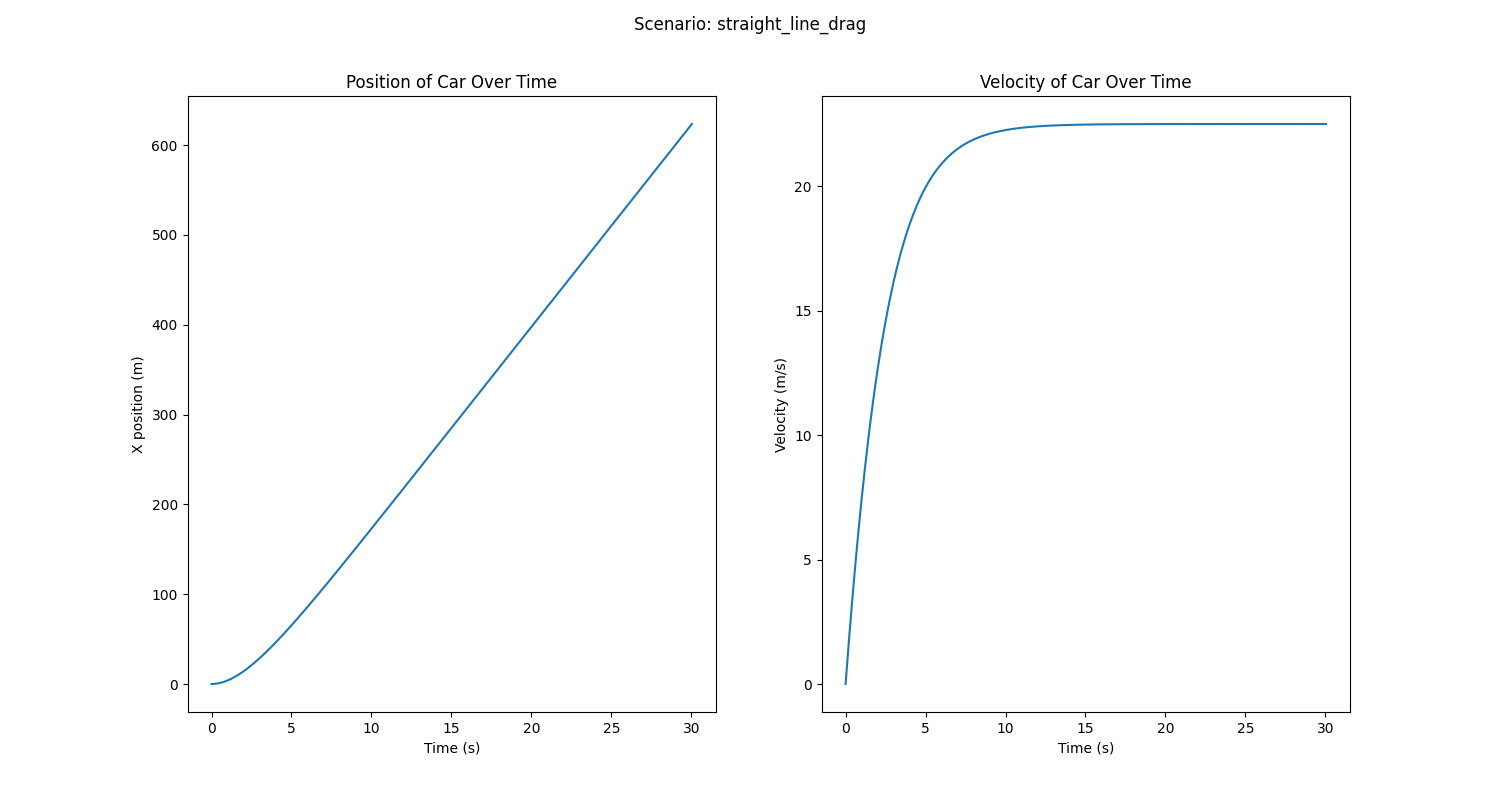
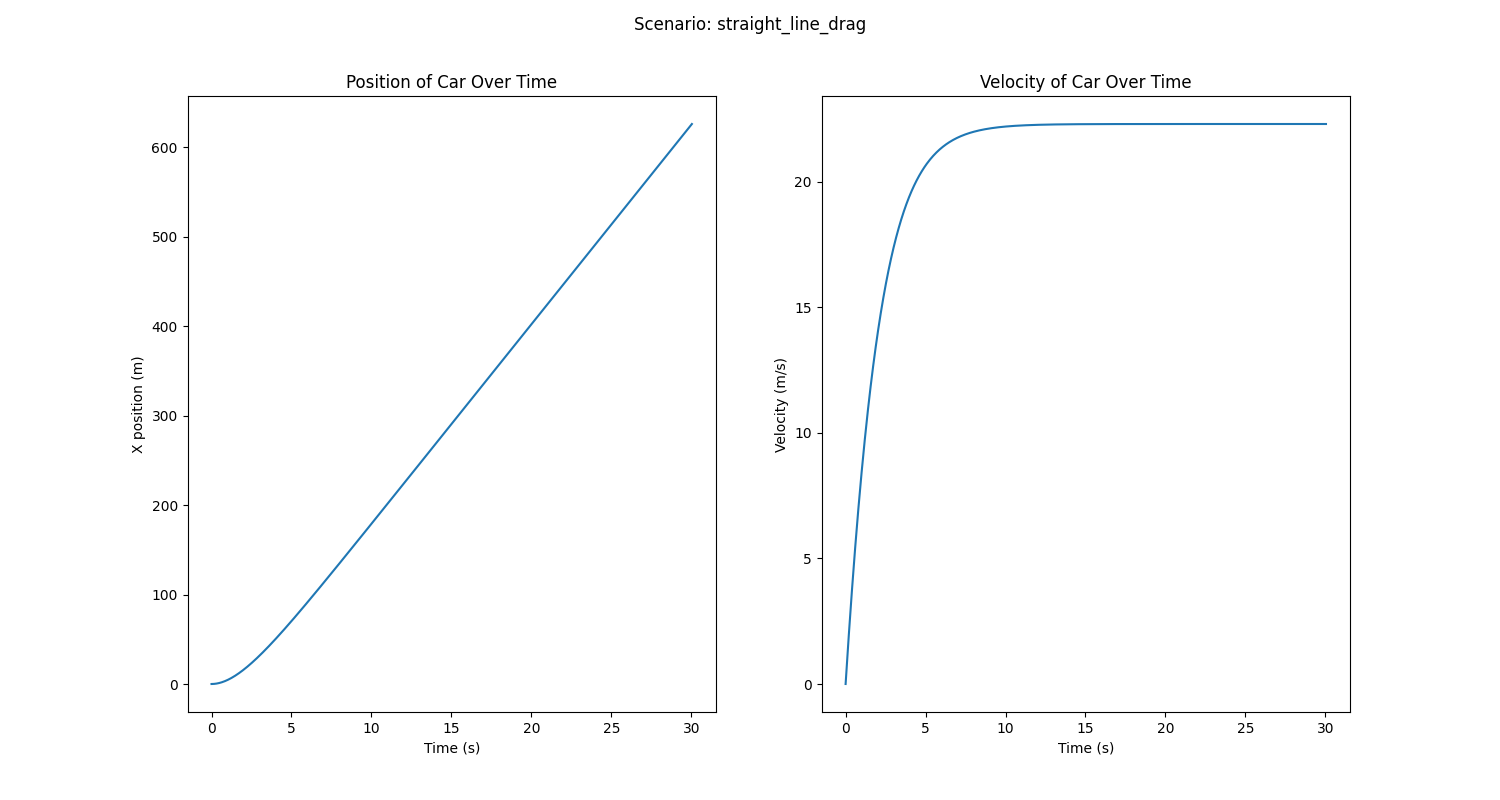
Finished commenting and added max speed display

diff --git a/modules/physics.py b/modules/physics.py
@@ -1,7 +1,7 @@
 import numpy as np
 
 # Constants
-air_density = 1
+air_density = 1.225 # kg/m^3
 transition_coefficient = 0.01 # unitless
 transition_coefficient = 0.006 # unitless
 g = 9.81 # m/s^2
@@ -25,88 +25,121 @@ def lift_force(velocity, rho, coeff_lift, area):
     # F_lift = 1/2 C_l*p*A*V^2 directed perpendicular to velocity
     return direction * (1/2 * coeff_lift * rho * area * v_mag**2)
 
-
-# I'm fucking quitting
+# Static to kinetic friction transition
+# takes static friction force, kinetic friction force, the limit of static friction, and a transition coefficient and calculates a smooth transition from static to kinetic friction as static friction approaches the limit
 def static_to_kinetic_transition(F_static, F_kinetic, F_limit, transition_coefficient):
-    force_mag = np.linalg.norm(F_static)
-    transition_ratio = (1 + np.e ** (1/transition_coefficient - force_mag/(transition_coefficient * F_limit)))**(-1)
-    return (1 - transition_ratio) * F_static + transition_ratio * F_kinetic, transition_ratio
+    force_mag = np.linalg.norm(F_static) # calculate the magnitude of static friction
+    transition_ratio = (1 + np.e ** (1/transition_coefficient - force_mag/(transition_coefficient * F_limit)))**(-1) # calculate the transition ratio from static to kinetic friction using a signmoid curve
+    return (1 - transition_ratio) * F_static + transition_ratio * F_kinetic, transition_ratio # apply a weighted average of the static and kinetic friction based on the transition ratio
     
 
 # Torque from a dc motor
 # takes motor angular speed w, applied voltage V_app, free speed w_free, max voltage V_max, stall torque T_stall, and stall current I_stall
+# units are rad/s volts, Nm, and amps
 def dc_motor_torque(w, V_app, w_free, V_max, T_stall, I_stall):
-    K_s = T_stall/I_stall
-    R_m = V_max/I_stall
-    V_emf = w/w_free * V_max
+    K_s = T_stall/I_stall # Torque constant
+    R_m = V_max/I_stall # Winding resistance in ohms
+    V_emf = w/w_free * V_max # emf in volts
 
-    I_stator = (V_app - V_emf)/R_m
-    return I_stator * K_s
+    I_stator = (V_app - V_emf)/R_m # winding current in amps
+    return I_stator * K_s # output torque in Nm
 
+# Stores the constants for a dc motor and allows calculating the output torque from applied voltage and angular velocity
 class DC_Motor:
+    # Constructor requires constants to define the motor dynamics
     def __init__(self, w_free, V_max, T_stall, I_stall):
-        self.w_free = w_free
-        self.V_max = V_max
-        self.T_stall = T_stall
-        self.I_stall = I_stall
+        self.w_free = w_free # rads/s
+        self.V_max = V_max # volts
+        self.T_stall = T_stall # Nm
+        self.I_stall = I_stall # amps
 
+    # calculate the torque from angular velocity and applied voltage
     def calculate_torque(self, w, V_app):
-        return dc_motor_torque(w, V_app, self.w_free, self.V_max, self.T_stall, self.I_stall)
+        return dc_motor_torque(w, V_app, self.w_free, self.V_max, self.T_stall, self.I_stall) # Nm
 
 # Collection of all the parameters, state, and dynamics of the simulated race car 
 # State vector is x,y position, x,y velocity, and the car heading
 class RaceCar:
+    # Constructor
     def __init__(self, mass, drag_coeff, drag_area, coeff_lift, wing_area, wheel_base, wheel_radius, coeff_friction, dc_motor):
         self.mass = mass # kg
-        self.drag_coeff = drag_coeff # 
-        self.drag_area = drag_area
-        self.coeff_lift = coeff_lift
-        self.wing_area = wing_area
+        self.drag_coeff = drag_coeff # unitless
+        self.drag_area = drag_area # m^2
+        self.coeff_lift = coeff_lift # unitless
+        self.wing_area = wing_area # m^2
         self.wheel_base = wheel_base # m
         self.wheel_radius = wheel_radius # m
-        self.coeff_friction = coeff_friction
+        self.coeff_friction = coeff_friction # unitless
         self.dc_motor = dc_motor
         self.state = np.zeros(5)
 
+    # calculate the turn radius for a given steering angle using the kinematics of the chassis
+    # steering angle in radians, radius in meters
     def steering_angle_to_turn_radius(self, steering_angle):
-        return np.sqrt((self.wheel_base/2)**2 + self.wheel_base**2 * np.tan(steering_angle)**(-2))
+        return np.sqrt((self.wheel_base/2)**2 + self.wheel_base**2 * np.tan(steering_angle)**(-2)) # m
 
+    # time derivative of the state vector
     def dxdt(self, x, u, t):
+        # slice the velocity from the state vector
         velocity = x[2:4] 
+        # car heading
         heading = x[4]
 
+        # make a unit vector in the direciton of the car heading
         heading_vector = np.array([np.cos(heading), np.sin(heading)])
+        # calculate the inward normal vector (points into the turn)
         if u[2] != 0:
+            # 90 degrees to heading if the turn is non zero
             inward_normal = np.array([-1 * np.sin(heading), np.cos(heading)]) if u[2] > 0 else np.array([np.sin(heading), -1 * np.cos(heading)])
+        # zero vector if the turn is zero
         else: inward_normal = np.zeros(2)
+        # vector representing velocity in the direction of the car heading
         forward_motion = velocity.dot(heading_vector) * heading_vector
 
-        wheel_speed = np.linalg.norm(forward_motion)/self.wheel_radius
-        motor_force = self.dc_motor.calculate_torque(wheel_speed, u[0])/self.wheel_radius * heading_vector
-        braking_force = -1 * u[1] * heading_vector 
+        # dervive the wheel speed from the forward velocity of the car and wheel radius
+        wheel_speed = np.linalg.norm(forward_motion)/self.wheel_radius # rad/s
+        # calculate the force applied by the motor using the motor torque multplied by the wheel radius applied in the direction of the car heading
+        motor_force = self.dc_motor.calculate_torque(wheel_speed, u[0])/self.wheel_radius * heading_vector # N
+        # Braking force is taken from the input vector and applied opposite the car heading
+        braking_force = -1 * u[1] * heading_vector # N
 
-        turn_radius = self.steering_angle_to_turn_radius(u[2])
-        centripetal_acceleration = np.linalg.norm(forward_motion)**2 / turn_radius
-        turning_force = centripetal_acceleration * self.mass * inward_normal
+        # Turn radius from steering angle
+        turn_radius = self.steering_angle_to_turn_radius(u[2]) # m
+        # centripetal acceleartion from turn radius and forward velocity
+        centripetal_acceleration = np.linalg.norm(forward_motion)**2 / turn_radius # m/s^2
+        # force required to turn the car in the direction of the inward normal
+        turning_force = centripetal_acceleration * self.mass * inward_normal # N
 
-        static_friction = motor_force + braking_force + turning_force
-        kinetic_friction = -1 * velocity/np.linalg.norm(velocity) * g * self.mass if np.linalg.norm(velocity) != 0 else np.zeros(2)
-        normal_force = g * self.mass + 1 * lift_force(forward_motion, air_density, self.coeff_lift, self.wing_area)[2]
-        limit_of_friction = self.coeff_friction * normal_force 
-        frictional_force, transition_factor = static_to_kinetic_transition(static_friction, kinetic_friction, limit_of_friction, transition_coefficient)
+        # Static friction force required to accelerate/brake/turn
+        static_friction = motor_force + braking_force + turning_force # N
+        # Force of kinetic friction if the car were sliding directed opposite the direction of travel
+        kinetic_friction = -1 * velocity/np.linalg.norm(velocity) * g * self.mass if np.linalg.norm(velocity) != 0 else np.zeros(2) # N
+        # Normal force is the sum of the force of gravity and force generated by downforce producing wings
+        normal_force = g * self.mass + 1 * lift_force(forward_motion, air_density, self.coeff_lift, self.wing_area)[2] # N
+        # Limit of static friction from normal force and coefficient of friction 
+        limit_of_friction = self.coeff_friction * normal_force # N
+        # Frictional force and the transition factor between static and kinetic caclulated using the smooth transition function
+        frictional_force, transition_factor = static_to_kinetic_transition(static_friction, kinetic_friction, limit_of_friction, transition_coefficient) # N
 
-        drag = drag_force(velocity, air_density, self.drag_coeff, self.drag_area)
-        f_net = drag + frictional_force
+        # Calculate the force of drag on the car acting opposite the direction of travel
+        drag = drag_force(velocity, air_density, self.drag_coeff, self.drag_area) # N
+        # Net force acting on the car is the sum of drag and friction
+        f_net = drag + frictional_force # N
 
-        acceleration = f_net / self.mass
-        angular_velocity = np.linalg.norm(forward_motion)/turn_radius * np.sign(u[2])
+        # acceleration of the car a = F/m
+        acceleration = f_net / self.mass # m/s^2
+        # rate of change of the cars heading calculated from the turn radius of the car
+        angular_velocity = np.linalg.norm(forward_motion)/turn_radius * np.sign(u[2]) # rad/s
 
+        # return the state derivative vector
         return np.array([velocity[0], velocity[1], acceleration[0], acceleration[1], angular_velocity])
         
 
+    # store a new state for the car
     def update_state(self, new_state):
         self.state = new_state
 
+    # return the state stored for the car
     def get_state(self):
         return self.state
 

diff --git a/main.py b/main.py
@@ -1,71 +1,98 @@
+# Import libraries and modules
 from modules import sim
 from matplotlib import pyplot as plt
 from matplotlib import animation, patches
 import numpy as np
 import scenarios
 
+# Set the scenario to be run and load the car and control vector objects
 scenario = "constant_turn_downforce" 
 car = scenarios.scenarios[scenario]["car"]
 u = scenarios.scenarios[scenario]["u"]
 
-car_width = 1.5
-car_length = 3
+# Car width and length for plotting
+car_width = 1.5 # m
+car_length = 3 # m
 
+# Method to offset the car so that the center of the rectangle lies at the passed position
 def offset_car(position, heading):
+    # apply a rotation matrix on the translation between the corner and center of the rectangle and subtract this from the passed position
     return position - np.matmul(np.array([[np.cos(heading), -np.sin(heading)], [np.sin(heading), np.cos(heading)]]), np.array([car_length, car_width])/2)
 
-step_size = 0.02
-control = np.array([200, 0, 0.15])
-sim_length = 30
-fps = 25
+# simulation parameters
+step_size = 0.02 # step size (s)
+sim_length = 30 # length of simulation (s)
+fps = 25 # frames per second for the animation (Hz)
 
+# Simulate the race car for the specificed period of time
 def simulate(racecar, control, sim_length, step_size, fps):
+    # Reset the state of the car
     racecar.update_state(np.zeros(len(racecar.get_state())))
+    # Set variables to record state over the simulation length
     t = 0
     state = np.array([racecar.get_state()])
-    forward_velocity = [0]    
-    lateral_velocity = [0]
+    forward_velocity = [0] # forward velocity m/s
+    lateral_velocity = [0] # sideways velocity m/s
     time = [t]
 
+    # Run simulation steps until the simulation length is reached
     while t < sim_length:
+        # Get the current state and time
         x_current = racecar.get_state()
         t_current = t
 
+        # integrate one step forward
         x_next, t_next = sim.rk4(x_current, control, t_current, racecar.dxdt, step_size, t_current + 1/fps)
+        # update the car state with the new state
         racecar.update_state(x_next)
         t = t_next
+        # Record the state, velocities, and time
         state = np.append(state, [x_next], axis=0) 
         forward_velocity.append(np.linalg.norm(x_next[2:4]))
         heading = np.array([-np.sin(x_next[4]), np.cos(x_next[4])])
         lateral_velocity.append(np.linalg.norm(heading.dot(x_next[2:4]) * heading))
         time.append(t)
 
+    # Return the recorded states, velocites, and time
     return state, forward_velocity, lateral_velocity, time
 
+# Figure with two plots, one for the xy position animated over time, another with the forward and lateral velocity of the car
 def xy_position_plot(name, fps, state, forward_velocity, lateral_velocity, time, window):
+    # create the plot object
     fig, axes = plt.subplots(1,2, figsize=(15,8))
+    # unpack subplots
     position_plot, velocity_plot = axes
+    # Set the plot and axis titles
     fig.suptitle(f"Scenario: {name}")
     position_plot.set(title="XY Position of Car", xlabel="X position (m)", ylabel="Y position (m)")
     velocity_plot.set(title="Velocity of Car Over Time", xlabel="Time (s)", ylabel="Velocity (m/s)")
 
-    car = patches.Rectangle(offset_car(state[0,:2], state[0,4]), car_length, car_width, angle=(180/np.pi) * state[0,4])
+    # Set the sizes of the plots
     position_plot.set(xlim=window[0], ylim=window[1])
     position_plot.set_aspect("equal", adjustable="box")
+    position_plot.grid()
     velocity_plot.set(xlim=[0,time[-1]+5], ylim=[0, 20])
+
+    # Create the objects for the plot lines and the rectangle representing the car
+    car = patches.Rectangle(offset_car(state[0,:2], state[0,4]), car_length, car_width, angle=(180/np.pi) * state[0,4])
     position_line = position_plot.plot(state[0,0], state[0,1], label="Position (m)")[0]
     position_plot.add_patch(car)
-    position_plot.grid()
     velocity_line = velocity_plot.plot(time[0], forward_velocity[0], label="Forward velocity (m/s)")[0]
     lateral_velocity_line = velocity_plot.plot(time[0], lateral_velocity[0], label="Lateral velocity (m/s)")[0]
+
+    # Display a legend for the velocity plot
     velocity_plot.legend()
 
+    # Update method to draw the lines over time
     def update(frame):
+        # Display the position line up until this frame number
         position_line.set_xdata(state[:frame, 0]) 
         position_line.set_ydata(state[:frame, 1])
+        # Update the position of the rectangle to the latest position of the car
         car.set_xy(offset_car(state[frame,:2], state[frame,4]))
         car.set_angle((180/np.pi) * state[frame,4])
 
+        # Display the velocity lines up until this frame number
         velocity_line.set_xdata(time[:frame]) 
         velocity_line.set_ydata(forward_velocity[:frame])
 
@@ -73,28 +100,43 @@ def xy_position_plot(name, fps, state, forward_velocity, lateral_velocity, time,
         lateral_velocity_line.set_ydata(lateral_velocity[:frame])
         return (position_line, velocity_line, lateral_velocity_line)
 
+    # Animate the plots over the simulation length at the specified fps
     ani = animation.FuncAnimation(fig=fig, func=update, frames=len(time), interval=int(1000/fps))
+    # Save the plot in the plots folder
     ani.save(f"plots/{name}.gif")
+    # Display the plot
     plt.show()
 
+# figure with two plots, position versus time and velocity versus time
 def position_v_time_plot(name, state, forward_velocity, time):
+    # two subplots
     fig, axes = plt.subplots(1,2, figsize=(15,8))
+    # unpack plots
     position_plot, velocity_plot = axes
+    # Set plot and axis titles
     fig.suptitle(f"Scenario: {name}")
     position_plot.set(title="Position of Car Over Time", xlabel="Time (s)", ylabel="X position (m)")
     velocity_plot.set(title="Velocity of Car Over Time", xlabel="Time (s)", ylabel="Velocity (m/s)")
 
+    # Display the x position of the car versus time
     position_plot.plot(time, state[:,0], label="Position (m)")[0]
+    # Dispaly the forward velocity of the car versus time
     velocity_plot.plot(time, forward_velocity, label="Forward velocity (m/s)")[0]
 
+    # Save the plot in the plots folder
     plt.savefig(f"plots/{name}.png")
+    # Display the plot
     plt.show()
 
+# Run the simulation for the specified scenario
 state, forward_velocity, lateral_velocity, time = simulate(car, u, sim_length, step_size, fps)
+print(f"Maximum forward velocity: {forward_velocity[-1]} m/s, Maximum lateral velocity: {lateral_velocity[-1]} m/s")
 print("Simulation done, generating plots")
 
+# If it is a straight line scenario display the position versus time plots
 if "straight_line" in scenario:
     position_v_time_plot(scenario, state, forward_velocity, time)
+# If it is a turning scenario display the xy position animated plots
 else:
     window = ([-20, 20], [-5, 35])
     xy_position_plot(scenario, fps, state, forward_velocity, lateral_velocity, time, window=window)

diff --git a/scenarios.py b/scenarios.py
@@ -6,23 +6,23 @@ import numpy as np
 mass = 200 # kg
 wheel_base = 1.7 # m
 wheel_radius = 0.26 # m 
-coeff_friction = 2.3 # unitless
+coeff_friction = 1.9 # unitless
 
 # DC Motor parameters
 w_free = 150 # rad/s
 V_max = 200 # Volts
-T_stall = 600 # Nm
+T_stall = 700 # Nm
 I_stall = 180 # A
 
 # No downforce car
-drag_coeff = 0.63
-drag_area = 2.5
+drag_coeff = 0.63 # unitless
+drag_area = 2.5 # m^2
 
 # Downforce car
-downforce_drag_coeff = 0.98
-downforce_drag_area = 3.5
-lift_coeff = 2.58
-wing_area = 3.5
+downforce_drag_coeff = 0.98 # unitless
+downforce_drag_area = 3.5 # m^2
+lift_coeff = 2.58 # unitless
+wing_area = 3.5 # m^2
 
 # shared dc motor object 
 dc_motor = physics.DC_Motor(w_free, V_max, T_stall, I_stall)

diff --git a/modules/sim.py b/modules/sim.py
@@ -17,6 +17,7 @@ def rk4(x, u, t, dxdt, dt, t_final):
 
 # Runge-Kutta 4th order numerical integration method
 # x is the state vector, u is the input vector, t the current time, dxdt is the time derivative of the state vector as a function of (x, u, t) and dt is the time step
+# implemented using formulas from https://en.wikipedia.org/wiki/Runge%E2%80%93Kutta_methods
 def rk4_step(x, u, t, dxdt, dt):
     k1 = dxdt(x, u, t)
     k2 = dxdt(x + dt * k1/2, u, t + dt/2)
